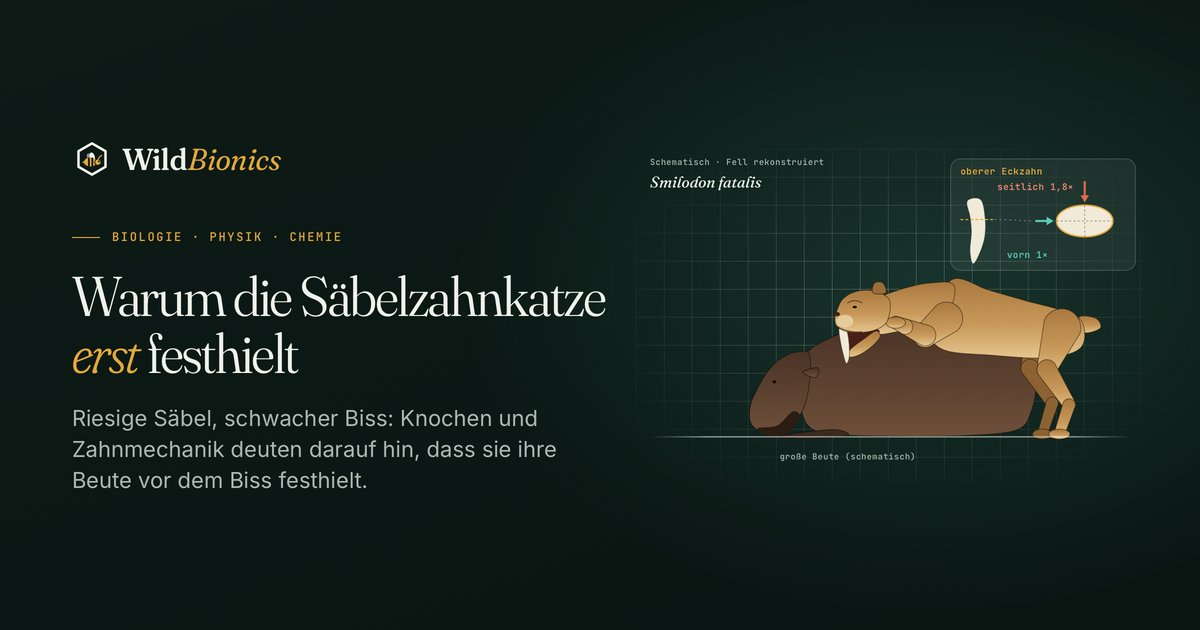
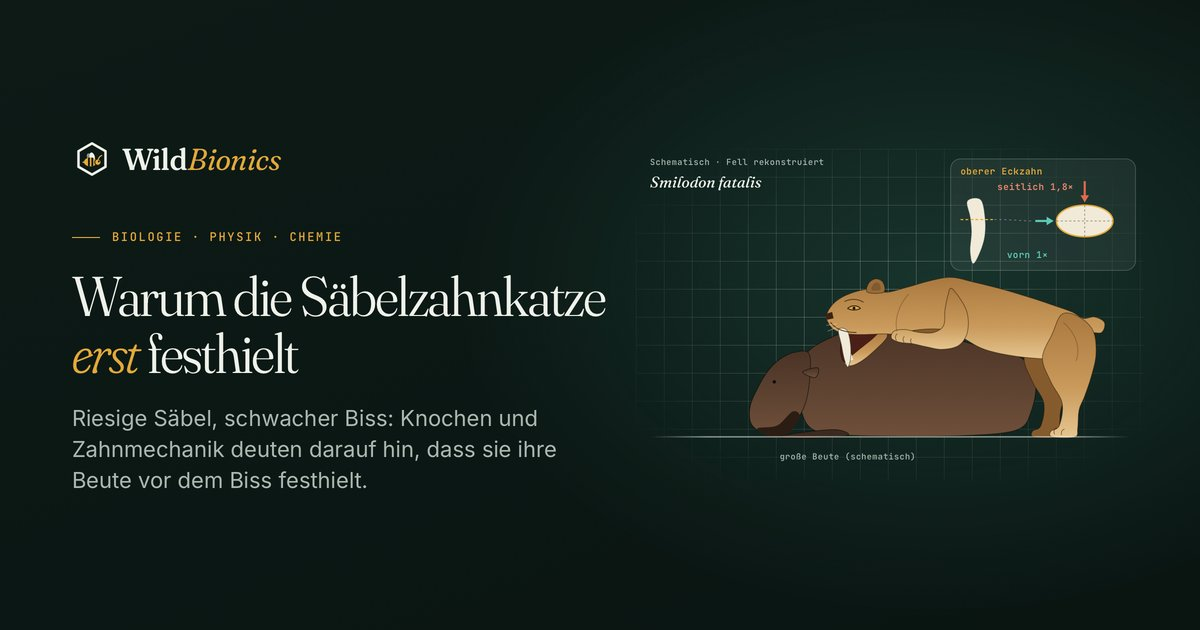
Hero figure: more naturalistic sabre-toothed cat
One continuous body outline instead of tube segments; felid head profile
(domed forehead, short muzzle, nose pad, flews, rounded ear, almond eye,
whiskers), wide-open jaw with sabre and small lower canine, muscular fore-
and hindlimbs with toes, the forelimb reaching from under the chest onto the
prey's back; subtle muscle contours. OG images re-rendered.

Changed region(s): [[0.6783, 0.4222, 0.925, 0.6937], [0.7708, 0.4222, 0.8633, 0.4825]]

diff --git a/assets/css/main.css b/assets/css/main.css
@@ -2450,15 +2450,21 @@ a.cite:hover { text-decoration: underline; }
 .sb-svg { width: 100%; height: auto; overflow: visible; }
 .sb-svg .grid { color: rgba(238, 242, 234, 0.045); }
 .sb-svg .ground { stroke: url(#sb-ground); stroke-width: 2; }
-.sb-svg .fur { fill: url(#sb-fur); stroke: rgba(40, 24, 8, 0.6); stroke-width: 1.1; stroke-linejoin: round; }
-.sb-svg .fur--far { fill: #8c6233; }
+.sb-svg .fur { fill: url(#sb-fur); stroke: rgba(40, 24, 8, 0.55); stroke-width: 1.1; stroke-linejoin: round; }
+.sb-svg .fur--far { fill: #855b2e; }
 .sb-svg .fur--ear { fill: #9a6c38; }
+.sb-svg .ear-inner { fill: #6b4a2c; opacity: .55; }
 .sb-svg .sabre { fill: #f1ead8; stroke: rgba(60, 50, 30, 0.6); stroke-width: 1; }
-.sb-svg .cat-eye { fill: #1e1a10; stroke: #e0b85a; stroke-width: 1; }
-.sb-svg .cat-nose { fill: #3a2414; }
+.sb-svg .tooth-small { fill: #f1ead8; }
 .sb-svg .mouth { fill: #4a1f17; stroke: rgba(30, 10, 5, 0.7); stroke-width: 1; }
-.sb-svg .muzzle { fill: #ead2a4; opacity: .85; }
+.sb-svg .muscle { fill: none; stroke: rgba(90, 55, 20, 0.35); stroke-width: 1.4; stroke-linecap: round; }
+.sb-svg .toe { fill: none; stroke: rgba(60, 35, 12, 0.6); stroke-width: 1.1; stroke-linecap: round; }
+.sb-svg .lip { fill: none; stroke: rgba(50, 28, 10, 0.75); stroke-width: 1.4; stroke-linecap: round; }
 .sb-svg .face-line { fill: none; stroke: rgba(50, 30, 10, 0.7); stroke-width: 1.3; stroke-linecap: round; }
+.sb-svg .eye-shape { fill: #d9a845; stroke: #2a1a0a; stroke-width: 1.2; }
+.sb-svg .pupil { fill: #1a1008; }
+.sb-svg .cat-nose { fill: #3a2414; }
+.sb-svg .whiskers { fill: none; stroke: rgba(240, 230, 210, 0.55); stroke-width: .8; stroke-linecap: round; }
 .sb-svg .prey { fill: url(#sb-prey); stroke: rgba(10, 6, 2, 0.6); stroke-width: 1.1; stroke-linejoin: round; }
 .sb-svg .prey--far, .sb-svg .prey--leg { fill: #3b2a1f; }
 .sb-svg .prey-eye { fill: #120c08; }
